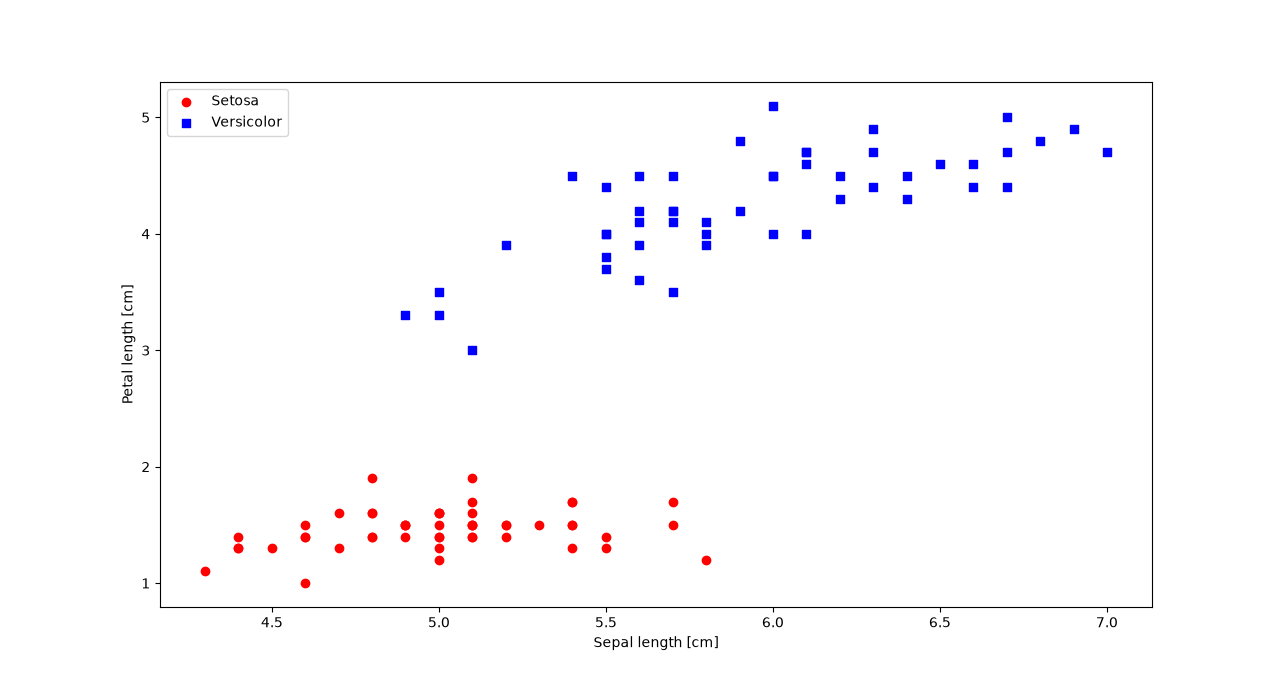
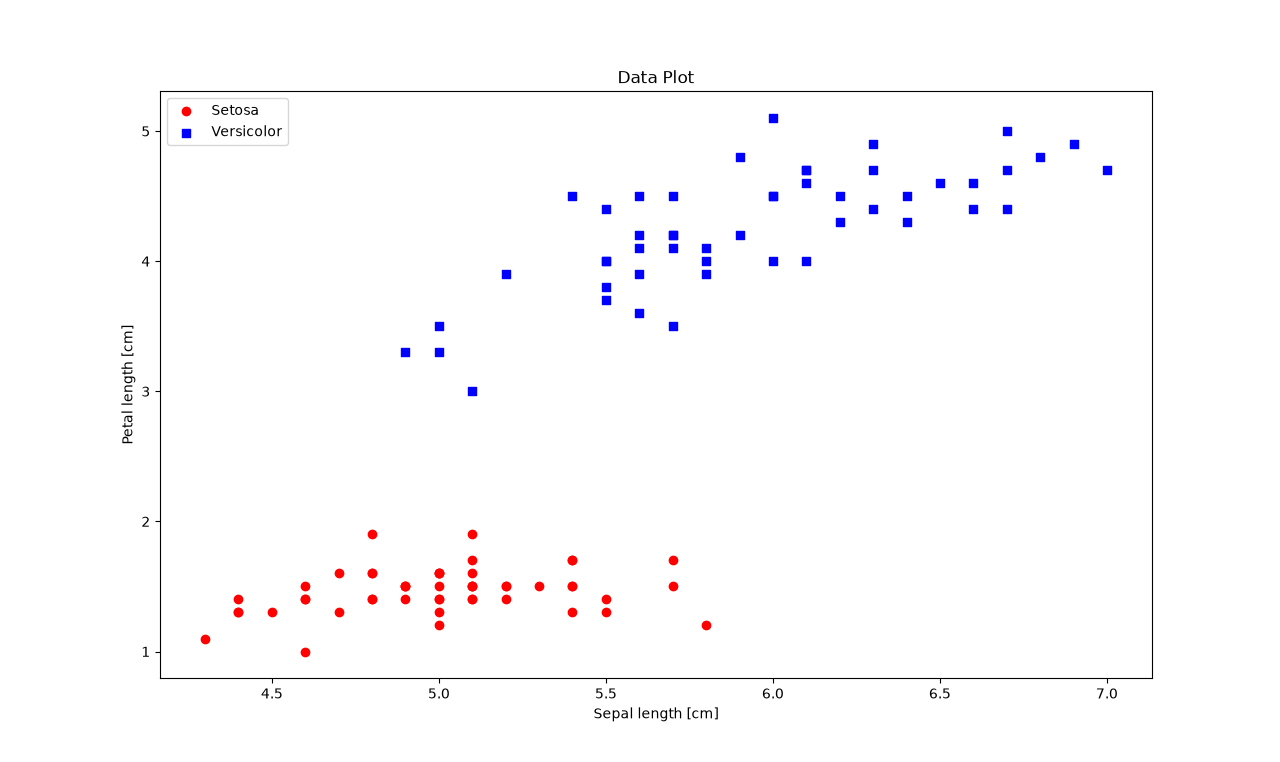
Added: Plots images + Plots titles

diff --git a/perceptron learning.py b/perceptron learning.py
@@ -89,6 +89,7 @@ X = df.iloc[0:100, [0, 2]].values
 # Plot data
 plt.scatter(X[0:50, 0], X[0:50, 1], color='red', marker='o', label='Setosa')
 plt.scatter(X[50:100, 0], X[50:100, 1], color='blue', marker='s', label='Versicolor')
+plt.title('Data Plot')
 plt.xlabel('Sepal length [cm]')
 plt.ylabel('Petal length [cm]')
 plt.legend(loc='upper left')
@@ -100,6 +101,7 @@ ppn.fit(X, y)
 
 # Plotting the misclassification error for each epoch
 plt.plot(range(1, len(ppn.errors_) + 1), ppn.errors_, marker='o')
+plt.title('Misclassification Errors')
 plt.xlabel('Epochs')
 plt.ylabel('Number of updates')
 plt.show() # Renders the plot
@@ -134,6 +136,7 @@ def plot_decision_regions(X, y, classifier, resolution=0.02):
     
 # Contour plot
 plot_decision_regions(X, y, classifier=ppn)
+plt.title('Perceptron’s Decision Regions')
 plt.xlabel('Sepal length [cm]')
 plt.ylabel('Petal length [cm]')
 plt.legend(loc='upper left')
